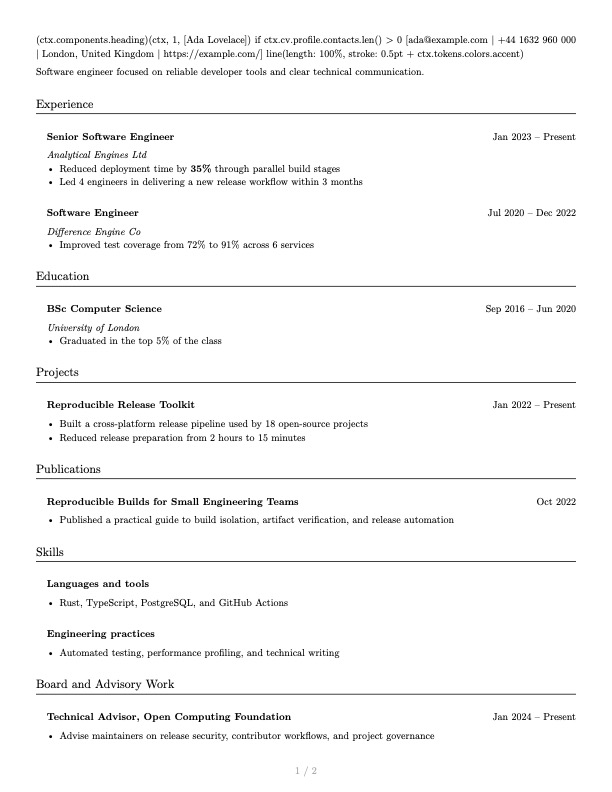
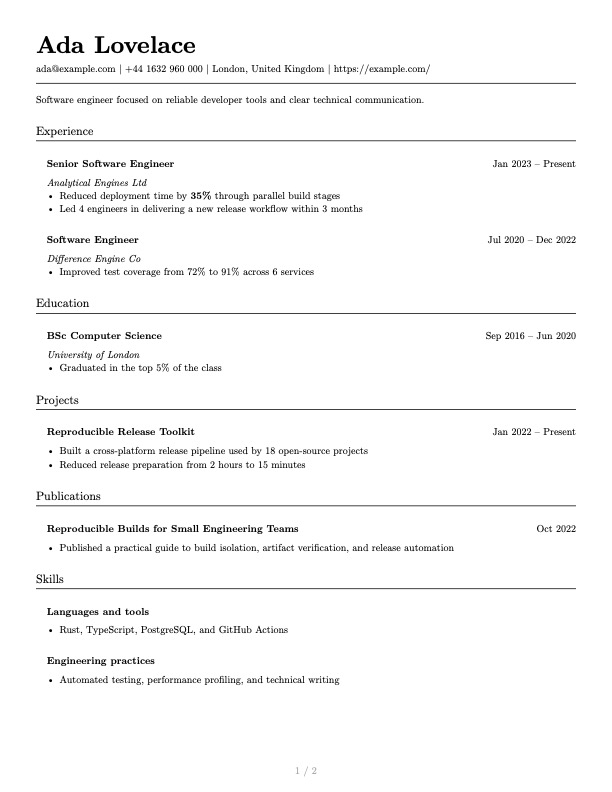
Update

diff --git a/CHANGELOG.md b/CHANGELOG.md
@@ -21,6 +21,10 @@ The format follows [Keep a Changelog](https://keepachangelog.com/en/1.1.0/) and 
 * Rename the default generated-document directory from `dist/` to `offering/`
 * Move the runnable example projects under `docs/examples/`
 
+### Fixed
+
+* Render the `classic-left` PDF header instead of displaying its Typst source
+
 ## [0.2.0]
 
 ### Added
